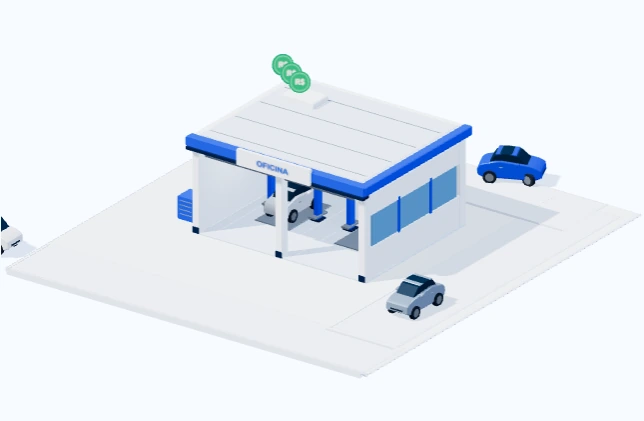
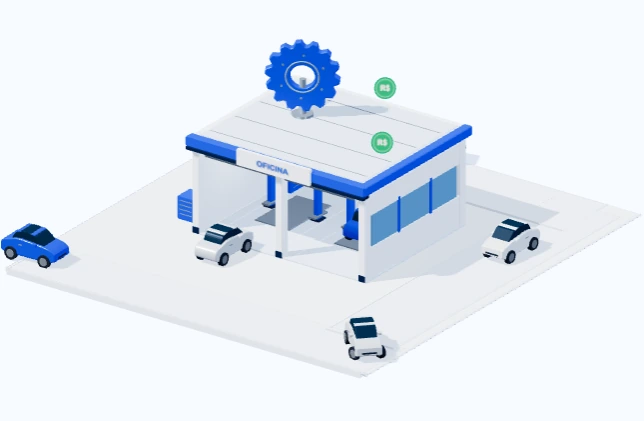
Add rotating roof gear and denser collision checked traffic

diff --git a/previa-v125/scripts/workshop-spatial.js b/previa-v125/scripts/workshop-spatial.js
@@ -2,7 +2,7 @@ import * as T from '../vendor/three/three.module.min.js';
 import {makeCar,roundedBox,material,disposeObject} from './hero-workshop.js';
 
 const clamp=(x,a=0,b=1)=>Math.min(b,Math.max(a,x)), lerp=T.MathUtils.lerp;
-const V=(x,z)=>new T.Vector3(x,0,z), LOOP=30, ROOF=3.55;
+const V=(x,z)=>new T.Vector3(x,0,z), LOOP=30, CARS=6, HEADWAY=LOOP/CARS, ROOF=3.55;
 // Both service lanes are drive-through: every bend is outside the building.
 function route(lane){
   const curves=[
@@ -17,22 +17,23 @@ function route(lane){
 }
 const paths=[route(-1.6),route(1.6)];
 function sample(seconds,index){
-  const t=((seconds+index*7.5)%LOOP+LOOP)%LOOP,lane=index%2;
+  const t=((seconds+index*HEADWAY)%LOOP+LOOP)%LOOP,lane=index%2;
   let segment,u,state;
-  if(t<5){segment=0;u=t/5;state='approaching'}
-  else if(t<8){segment=1;u=1-Math.pow(1-(t-5)/3,2);state='entering'}
-  else if(t<11){segment=1;u=1;state='servicing'}
-  else if(t<15){segment=2;u=Math.pow((t-11)/4,1.5);state='leaving'}
-  else if(t<19){segment=3;u=(t-15)/4;state='circulating'}
-  else if(t<25){segment=4;u=(t-19)/6;state='circulating'}
-  else{segment=5;u=(t-25)/5;state='departing'}
+  if(t<4.5){segment=0;u=1-Math.pow(1-t/4.5,1.35);state='approaching'}
+  else if(t<5.5){segment=0;u=1;state='waiting'}
+  else if(t<8.5){segment=1;u=(1-Math.cos(Math.PI*(t-5.5)/3))/2;state='entering'}
+  else if(t<11.5){segment=1;u=1;state='servicing'}
+  else if(t<15.5){segment=2;u=Math.pow((t-11.5)/4,1.5);state='leaving'}
+  else if(t<19.5){segment=3;u=(t-15.5)/4;state='circulating'}
+  else if(t<25.5){segment=4;u=(t-19.5)/6;state='circulating'}
+  else{segment=5;u=(t-25.5)/4.5;state='departing'}
   const curve=paths[lane][segment],point=curve.getPointAt(u),tangent=curve.getTangentAt(u);
   return {point,heading:Math.atan2(-tangent.z,tangent.x),state,t,segment,lane};
 }
 
 // Collision audit uses conservative oriented footprints, rather than screen projections.
 export function auditWorkshopPaths(){
-  let minClearance=Infinity,violations=0;
+  let minClearance=Infinity,violations=0,minVehicleClearance=Infinity,vehicleCollisions=0,waitingSamples=0,samples=0;
   const obstacles=[[-3.35,-1.7,.15,2.9],[3.35,-1.7,.15,2.9],[0,1,.15,.18],[-3.35,1,.15,.18],[3.35,1,.15,.18]];
   for(const lane of [-1.6,1.6])for(const x of [lane-.94,lane+.94])obstacles.push([x,-2,.075,.12]);
   function separation(a,b){
@@ -42,8 +43,19 @@ export function auditWorkshopPaths(){
       return Math.abs(x*(a.point.x-b[0])+z*(a.point.z-b[1]))-ra-b[2]*Math.abs(x)-b[3]*Math.abs(z);
     }));
   }
-  for(let i=0;i<4;i++)for(let s=0;s<LOOP;s+=.025){const a=sample(s,i);for(const o of obstacles){const d=separation(a,o);minClearance=Math.min(minClearance,d);if(d<0)violations++}}
-  return {samples:4800,violations,minClearance,roofHeight:ROOF,coinMinimumHeight:4.75,carWidth:1.06,doorClearWidth:3.05};
+  function vehicleSeparation(a,b){
+    const axes=[a.heading,a.heading+Math.PI/2,b.heading,b.heading+Math.PI/2].map(h=>[Math.cos(h),-Math.sin(h)]);
+    return Math.max(...axes.map(([x,z])=>{
+      const radius=p=>1.09*Math.abs(x*Math.cos(p.heading)-z*Math.sin(p.heading))+.53*Math.abs(x*Math.sin(p.heading)+z*Math.cos(p.heading));
+      return Math.abs(x*(a.point.x-b.point.x)+z*(a.point.z-b.point.z))-radius(a)-radius(b);
+    }));
+  }
+  for(let s=0;s<LOOP;s+=.01){const positions=Array.from({length:CARS},(_,i)=>sample(s,i));for(let i=0;i<CARS;i++){
+    const a=positions[i];samples++;if(a.state==='waiting')waitingSamples++;
+    for(const o of obstacles){const d=separation(a,o);minClearance=Math.min(minClearance,d);if(d<0)violations++}
+    for(let j=i+1;j<CARS;j++){const d=vehicleSeparation(a,positions[j]);minVehicleClearance=Math.min(minVehicleClearance,d);if(d<0)vehicleCollisions++}
+  }}
+  return {samples,violations,minClearance,vehicleCollisions,minVehicleClearance,waitingSamples,cars:CARS,entryInterval:HEADWAY,roofHeight:ROOF,coinMinimumHeight:4.75,carWidth:1.06,doorClearWidth:3.05};
 }
 
 function mergeStatic(group){
@@ -57,7 +69,7 @@ function textTexture(text,color,bg=null){const c=document.createElement('canvas'
 
 export async function initMechanism(stage,{holdAssembly=false,compact=false}={}){
   let disposed=false,visible=true,paused=false,held=holdAssembly,raf=0,last=0,clock=2,lastRender=0;
-  const stats={renderer:'three-spatial',ready:false,active:true,running:false,paused:false,fallback:false,frames:0,elapsedSeconds:0,loopDuration:LOOP,cars:4,carStates:[],arrivals:0,moneyColor:'#16a56a',coinPositions:[],roofHeight:ROOF,vertices:0,drawcalls:0,dpr:1,stage:'find',geometryAudit:auditWorkshopPaths()};
+  const stats={renderer:'three-spatial',ready:false,active:true,running:false,paused:false,fallback:false,frames:0,elapsedSeconds:0,loopDuration:LOOP,cars:CARS,carStates:[],arrivals:0,moneyColor:'#16a56a',coinPositions:[],roofHeight:ROOF,vertices:0,drawcalls:0,dpr:1,stage:'find',geometryAudit:auditWorkshopPaths()};
   const canvas=document.createElement('canvas');canvas.className='mechanism-canvas';canvas.setAttribute('aria-hidden','true');
   const renderer=new T.WebGLRenderer({canvas,alpha:true,antialias:true,powerPreference:'high-performance'});
   renderer.outputColorSpace=T.SRGBColorSpace;renderer.toneMapping=T.ACESFilmicToneMapping;renderer.toneMappingExposure=1.16;
@@ -115,31 +127,41 @@ export async function initMechanism(stage,{holdAssembly=false,compact=false}={})
   // Parking guides and low planting stay outside vehicle trajectories.
   for(const z of [-3.7,-2.9]){box(.65,.42,.6,-4.25,.2,z,white,.07);cyl(.24,.45,-4.25,.58,z,material(0x579b86,.8,.01),12)}
   scene.add(mergeStatic(staticRoot));
+  // Roof landmark: a solid, bevelled gear mounted on a short metal support.
+  const support=new T.Mesh(new T.CylinderGeometry(.105,.14,1.35,20),silver);support.position.set(-1.35,4.22,-2.1);support.castShadow=true;scene.add(support);
+  const mount=new T.Mesh(new T.CylinderGeometry(.36,.36,.08,24),silver);mount.position.set(-1.35,3.63,-2.1);scene.add(mount);
+  const gearStand=new T.Group();gearStand.position.set(-1.35,5.02,-2.1);gearStand.rotation.y=.53;scene.add(gearStand);
+  const gearShape=new T.Shape();for(let i=0;i<56;i++){const a=i/56*Math.PI*2,r=i%4===1||i%4===2?1.21:1.04;const x=Math.cos(a)*r,y=Math.sin(a)*r;i?gearShape.lineTo(x,y):gearShape.moveTo(x,y)}gearShape.closePath();const gearHole=new T.Path();gearHole.absarc(0,0,.45,0,Math.PI*2,true);gearShape.holes.push(gearHole);
+  const gearGeo=new T.ExtrudeGeometry(gearShape,{depth:.22,bevelEnabled:true,bevelSegments:3,bevelSize:.035,bevelThickness:.035,curveSegments:32});gearGeo.center();
+  const roofGear=new T.Group(),gearBody=new T.Mesh(gearGeo,blue);gearBody.castShadow=true;roofGear.add(gearBody);
+  for(const z of [-.135,.135]){const ring=new T.Mesh(new T.TorusGeometry(.55,.035,8,48),silver);ring.position.z=z;roofGear.add(ring);for(let i=0;i<6;i++){const bolt=new T.Mesh(new T.CylinderGeometry(.047,.047,.025,8),silver);bolt.rotation.x=Math.PI/2;bolt.position.set(Math.cos(i*Math.PI/3)*.77,Math.sin(i*Math.PI/3)*.77,z);roofGear.add(bolt)}}gearStand.add(roofGear);
   const floor=new T.Mesh(new T.PlaneGeometry(200,200),new T.ShadowMaterial({opacity:.17,color:0x506789}));floor.rotation.x=-Math.PI/2;floor.position.y=-.066;floor.receiveShadow=true;scene.add(floor);
   const cars=[];
   const carMats=[material(0xe7edf5,.23,.45),material(0x1261f4,.22,.35),material(0x9bb0c8,.24,.5),material(0xf7fbff,.23,.35)];
-  for(let i=0;i<4;i++){
-    const car=makeCar(carMats[i],blue);car.traverse(o=>{if(o.isMesh){o.castShadow=true;o.receiveShadow=true}});
+  for(let i=0;i<CARS;i++){
+    const carMat=carMats[i%carMats.length],car=makeCar(carMat,blue);car.traverse(o=>{if(o.isMesh){o.castShadow=true;o.receiveShadow=true}});
     // Side mirrors and door handles remain solid geometry, at the same scale as the body.
-    for(const z of [-.47,.47]){const mirror=roundedBox(.16,.08,.12,carMats[i],.018);mirror.position.set(.28,.73,z);car.add(mirror);const handle=roundedBox(.12,.025,.025,silver,.005);handle.position.set(-.27,.61,z);car.add(handle)}
+    for(const z of [-.47,.47]){const mirror=roundedBox(.16,.08,.12,carMat,.018);mirror.position.set(.28,.73,z);car.add(mirror);const handle=roundedBox(.12,.025,.025,silver,.005);handle.position.set(-.27,.61,z);car.add(handle)}
     car.userData.steers=[];
     for(const wheel of car.userData.wheels.filter(w=>w.position.x>0)){const pivot=new T.Group();pivot.position.copy(wheel.position);car.add(pivot);pivot.add(wheel);wheel.position.set(0,0,0);car.userData.steers.push(pivot)}
     scene.add(car);cars.push(car);
   }
-  const coins=[],arrived=new Map();
+  const coins=[],arrived=new Map();let nextCoinAt=2,emission=0;
   const coinCanvas=document.createElement('canvas');coinCanvas.width=256;coinCanvas.height=256;const cc=coinCanvas.getContext('2d');cc.fillStyle='#16a56a';cc.fillRect(0,0,256,256);cc.strokeStyle='#91edbc';cc.lineWidth=5;cc.beginPath();cc.arc(128,128,112,0,Math.PI*2);cc.stroke();cc.fillStyle='#ffffff';cc.font='bold 96px Arial';cc.textAlign='center';cc.textBaseline='middle';cc.fillText('R$',128,134);const coinMap=new T.CanvasTexture(coinCanvas);coinMap.colorSpace=T.SRGBColorSpace;
-  function spawnCoin(lane){
-    for(let n=0;n<3;n++){
+  function spawnCoin(lane,ambient=false){
+    for(let n=0;n<(ambient?1:2);n++){
       const group=new T.Group(),face=new T.MeshBasicMaterial({map:coinMap,transparent:false});
       const rim=new T.Mesh(new T.CylinderGeometry(.36,.36,.085,32),material(0x16a56a,.25,.25));rim.rotation.x=Math.PI/2;group.add(rim);
       const label=new T.Mesh(new T.CircleGeometry(.335,32),face);label.position.z=.047;group.add(label);scene.add(group);
-      coins.push({group,birth:clock+n*.26,x:lane+(n-1)*.34});
+      const stream=emission++%3;coins.push({group,birth:clock+n*.72,x:[.8,2.4,3.7][stream],z:[-.4,-1.5,.5][stream]});
     }
-    stats.arrivals++;stage.dispatchEvent(new CustomEvent('workshop:arrival',{detail:{total:stats.arrivals}}));
+    if(!ambient){stats.arrivals++;stage.dispatchEvent(new CustomEvent('workshop:arrival',{detail:{total:stats.arrivals}}))}stats.emissions=emission;
   }
   function pose(){
+    roofGear.rotation.z=-(clock-2)*.38;stats.roofGearAngle=roofGear.rotation.z;
+    if(clock>=nextCoinAt){spawnCoin(0,true);nextCoinAt=clock+1.35}
     stats.carStates=cars.map((car,i)=>{
-      const p=sample(clock,i),previous=car.userData.prev,cycle=Math.floor((clock+i*7.5)/LOOP);
+      const p=sample(clock,i),previous=car.userData.prev,cycle=Math.floor((clock+i*HEADWAY)/LOOP);
       const distance=previous?previous.distanceTo(p.point):0;
       const angle=car.userData.heading===undefined?0:Math.atan2(Math.sin(p.heading-car.userData.heading),Math.cos(p.heading-car.userData.heading));
       car.userData.steers.forEach(pivot=>pivot.rotation.y=distance>.001&&distance<1?clamp(Math.atan(1.3*angle/distance),-.5,.5):0);car.userData.heading=p.heading;
@@ -150,7 +172,7 @@ export async function initMechanism(stage,{holdAssembly=false,compact=false}={})
       return {x:p.point.x,z:p.point.z,heading:p.heading,state:p.state,visible:car.visible,wheelRotation:car.userData.wheels[0].rotation.z};
     });
     stats.coinPositions=[];
-    for(let i=coins.length-1;i>=0;i--){const c=coins[i],age=clock-c.birth;if(age>2.5){scene.remove(c.group);c.group.traverse(o=>{o.geometry?.dispose();o.material?.dispose()});coins.splice(i,1);continue}c.group.visible=age>=0;if(age<0)continue;c.group.position.set(c.x,4.75+age*.85,-1.8);c.group.quaternion.copy(camera.quaternion);c.group.rotateY(Math.sin(age*2)*.24);c.group.scale.setScalar(Math.min(1,age*7)*Math.min(1,(2.5-age)*2));stats.coinPositions.push({y:c.group.position.y,screenY:c.group.position.clone().project(camera).y});}
+    for(let i=coins.length-1;i>=0;i--){const c=coins[i],age=clock-c.birth;if(age>2.5){scene.remove(c.group);c.group.traverse(o=>{o.geometry?.dispose();o.material?.dispose()});coins.splice(i,1);continue}c.group.visible=age>=0;if(age<0)continue;c.group.position.set(c.x,4.75+age*.65,c.z);c.group.quaternion.copy(camera.quaternion);c.group.rotateY(Math.sin(age*2)*.24);c.group.scale.setScalar(Math.min(1,age*7)*Math.min(1,(2.5-age)*2));stats.coinPositions.push({x:c.x,y:c.group.position.y,screenY:c.group.position.clone().project(camera).y});}
     stats.elapsedSeconds=clock-2;stats.stage=stats.carStates[0].state==='servicing'?'service':stats.carStates[0].state==='entering'?'contact':'find';
   }
   function render(){pose();renderer.render(scene,camera);stats.frames++;stats.drawcalls=renderer.info.render.calls;stats.triangles=renderer.info.render.triangles;}
